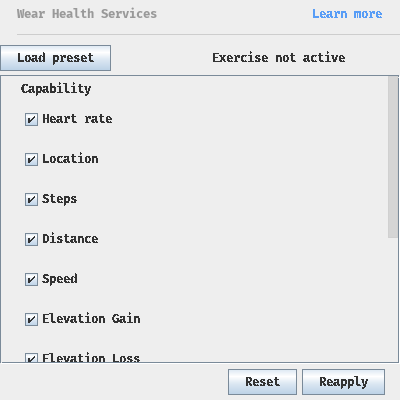
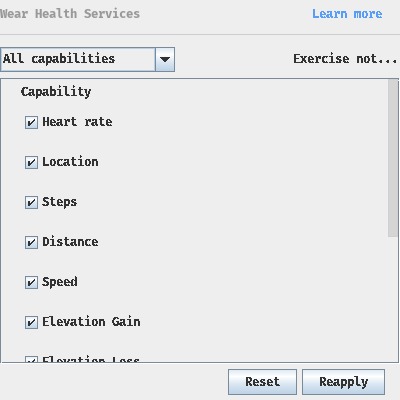
Restore preset combobox
... instead of "Load Preset" button

Fixes: 373350549
Test: existing

diff --git a/wear-whs/src/com/android/tools/idea/wearwhs/view/WearHealthServicesPanel.kt b/wear-whs/src/com/android/tools/idea/wearwhs/view/WearHealthServicesPanel.kt
@@ -23,8 +23,6 @@ import com.android.tools.idea.wearwhs.WhsCapability
 import com.android.tools.idea.wearwhs.WhsDataValue
 import com.intellij.icons.AllIcons
 import com.intellij.ide.BrowserUtil
-import com.intellij.openapi.actionSystem.ActionGroup
-import com.intellij.openapi.actionSystem.ActionManager
 import com.intellij.openapi.actionSystem.ActionPlaces
 import com.intellij.openapi.actionSystem.ActionToolbar
 import com.intellij.openapi.actionSystem.ActionUpdateThread
@@ -33,7 +31,7 @@ import com.intellij.openapi.actionSystem.AnActionEvent
 import com.intellij.openapi.actionSystem.ex.ActionUtil
 import com.intellij.openapi.actionSystem.ex.CustomComponentAction
 import com.intellij.openapi.actionSystem.impl.ActionButton
-import com.intellij.openapi.ui.JBPopupMenu
+import com.intellij.openapi.ui.ComboBox
 import com.intellij.openapi.ui.VerticalFlowLayout
 import com.intellij.ui.components.ActionLink
 import com.intellij.ui.components.JBLabel
@@ -52,6 +50,7 @@ import java.awt.Font
 import java.awt.Toolkit
 import java.lang.Boolean.TRUE
 import java.util.Collections
+import javax.swing.DefaultComboBoxModel
 import javax.swing.JButton
 import javax.swing.JCheckBox
 import javax.swing.JComponent
@@ -66,6 +65,7 @@ import kotlinx.coroutines.CoroutineScope
 import kotlinx.coroutines.flow.Flow
 import kotlinx.coroutines.flow.collectLatest
 import kotlinx.coroutines.flow.combine
+import kotlinx.coroutines.flow.drop
 import kotlinx.coroutines.flow.launchIn
 import kotlinx.coroutines.flow.map
 import kotlinx.coroutines.flow.onEach
@@ -338,7 +338,7 @@ private fun createWearHealthServicesPanelHeader(
 
   twoColumnsRow(
     {
-      cell(createLoadCapabilityPresetButton(stateManager = stateManager, uiScope = uiScope))
+      cell(createLoadCapabilityPresetComboBox(stateManager = stateManager, uiScope = uiScope))
       cell(createTriggerEventGroupsButton(triggerEvent = { triggerEvent(it) }))
     },
     { cell(statusLabel) },
@@ -479,44 +479,29 @@ private fun createEventTriggerAction(
     }
   }
 
-private fun createLoadCapabilityPresetButton(
+private fun createLoadCapabilityPresetComboBox(
   stateManager: WearHealthServicesStateManager,
   uiScope: CoroutineScope,
-): JButton {
-  val presetActionGroup =
-    object : ActionGroup(null, true) {
-      override fun getChildren(e: AnActionEvent?) =
-        Preset.entries
-          .map {
-            object : AnAction(message(it.labelKey)) {
-              override fun getActionUpdateThread() = ActionUpdateThread.BGT
+): ComboBox<Preset> {
+  val presetComboBox = ComboBox<Preset>(DefaultComboBoxModel(Preset.entries.toTypedArray()))
+  presetComboBox.selectedItem = stateManager.preset.value
+  presetComboBox.isEnabled = !stateManager.ongoingExercise.value
 
-              override fun actionPerformed(e: AnActionEvent) {
-                stateManager.loadPreset(it)
-              }
-            }
-          }
-          .toTypedArray()
-    }
+  presetComboBox.addActionListener {
+    stateManager.loadPreset(presetComboBox.selectedItem as Preset)
+  }
 
-  val loadCapabilityPresetButton =
-    JButton(message("wear.whs.panel.load.preset")).apply {
-      addActionListener {
-        val popup =
-          ActionManager.getInstance().createActionPopupMenu(ActionPlaces.POPUP, presetActionGroup)
-        JBPopupMenu.showBelow(this, popup.component)
-      }
-    }
-
+  // ignore the first one as we don't want to trigger an action for the pre-existing value
+  stateManager.preset.drop(1).onEach { presetComboBox.selectedItem = it }.launchIn(uiScope)
   stateManager.ongoingExercise
     .onEach {
-      loadCapabilityPresetButton.isEnabled = !it
-      loadCapabilityPresetButton.toolTipText =
+      presetComboBox.isEnabled = !it
+      presetComboBox.toolTipText =
         if (it) message("wear.whs.panel.disabled.during.exercise")
         else message("wear.whs.panel.load.preset.tooltip")
     }
     .launchIn(uiScope)
-  return loadCapabilityPresetButton
+  return presetComboBox
 }
 
 private fun WearHealthServicesStateManager.hasAtLeastOneCapabilityEnabled() =

diff --git a/wear-whs/testSrc/com/android/tools/idea/wearwhs/view/WearHealthServicesPanelTest.kt b/wear-whs/testSrc/com/android/tools/idea/wearwhs/view/WearHealthServicesPanelTest.kt
@@ -41,6 +41,7 @@ import com.intellij.openapi.actionSystem.ActionManager
 import com.intellij.openapi.actionSystem.ex.ActionManagerEx
 import com.intellij.openapi.application.ApplicationManager
 import com.intellij.openapi.application.runInEdt
+import com.intellij.openapi.ui.ComboBox
 import com.intellij.openapi.util.Disposer
 import com.intellij.testFramework.EdtRule
 import com.intellij.testFramework.RunsInEdt
@@ -282,13 +283,11 @@ class WearHealthServicesPanelTest {
   }
 
   @Test
-  fun `test panel disables checkboxes and load preset button during an exercise`() =
+  fun `test panel disables checkboxes and load preset combobox during an exercise`() =
     runBlocking<Unit> {
       val fakeUi = FakeUi(createWhsPanel().component)
 
-      fakeUi.waitForDescendant<JButton> {
-        it.text == message("wear.whs.panel.load.preset") && it.isEnabled
-      }
+      fakeUi.waitForDescendant<ComboBox<Preset>> { it.isEnabled }
       fakeUi.waitForDescendant<JCheckBox> {
         it.hasLabel(message("wear.whs.capability.heart.rate.label")) && it.isEnabled
       }
@@ -298,9 +297,7 @@ class WearHealthServicesPanelTest {
 
       deviceManager.activeExercise = true
 
-      fakeUi.waitForDescendant<JButton> {
-        it.text == message("wear.whs.panel.load.preset") && !it.isEnabled
-      }
+      fakeUi.waitForDescendant<ComboBox<Preset>> { !it.isEnabled }
       fakeUi.waitForDescendant<JCheckBox> {
         it.hasLabel(message("wear.whs.capability.heart.rate.label")) && !it.isEnabled
       }

diff --git a/wear-whs/src/com/android/tools/idea/wearwhs/view/WearHealthServicesStateManager.kt b/wear-whs/src/com/android/tools/idea/wearwhs/view/WearHealthServicesStateManager.kt
@@ -20,8 +20,6 @@ import com.android.tools.idea.wearwhs.EventTrigger
 import com.android.tools.idea.wearwhs.WearWhsBundle.message
 import com.android.tools.idea.wearwhs.WhsCapability
 import com.android.tools.idea.wearwhs.communication.CapabilityState
-import com.android.tools.idea.wearwhs.view.Preset.ALL
-import com.android.tools.idea.wearwhs.view.Preset.STANDARD
 import kotlinx.coroutines.Job
 import kotlinx.coroutines.flow.StateFlow
 import org.jetbrains.annotations.PropertyKey
@@ -30,6 +28,9 @@ import org.jetbrains.annotations.PropertyKey
 internal interface WearHealthServicesStateManager {
   /** Capabilities of WHS. */
   val capabilitiesList: List<WhsCapability>
+
+  /** State flow for the current preset. */
+  val preset: StateFlow<Preset>
 
   /** Sets the current capability enabled state. */
   suspend fun setCapabilityEnabled(capability: WhsCapability, enabled: Boolean)

diff --git a/wear-whs/src/com/android/tools/idea/wearwhs/view/WearHealthServicesStateManagerImpl.kt b/wear-whs/src/com/android/tools/idea/wearwhs/view/WearHealthServicesStateManagerImpl.kt
@@ -68,6 +68,8 @@ internal class WearHealthServicesStateManagerImpl(
 
   override val capabilitiesList = deviceManager.getCapabilities()
 
+  override val preset = MutableStateFlow(Preset.ALL)
+
   private val capabilityToState =
     capabilitiesList.associateWith {
       MutableStateFlow<CapabilityUIState>(
@@ -193,6 +195,7 @@ internal class WearHealthServicesStateManagerImpl(
     }
 
   override fun loadPreset(preset: Preset): Job {
+    this.preset.value = preset
     return workerScope.launch {
       when (preset) {
         Preset.STANDARD ->
